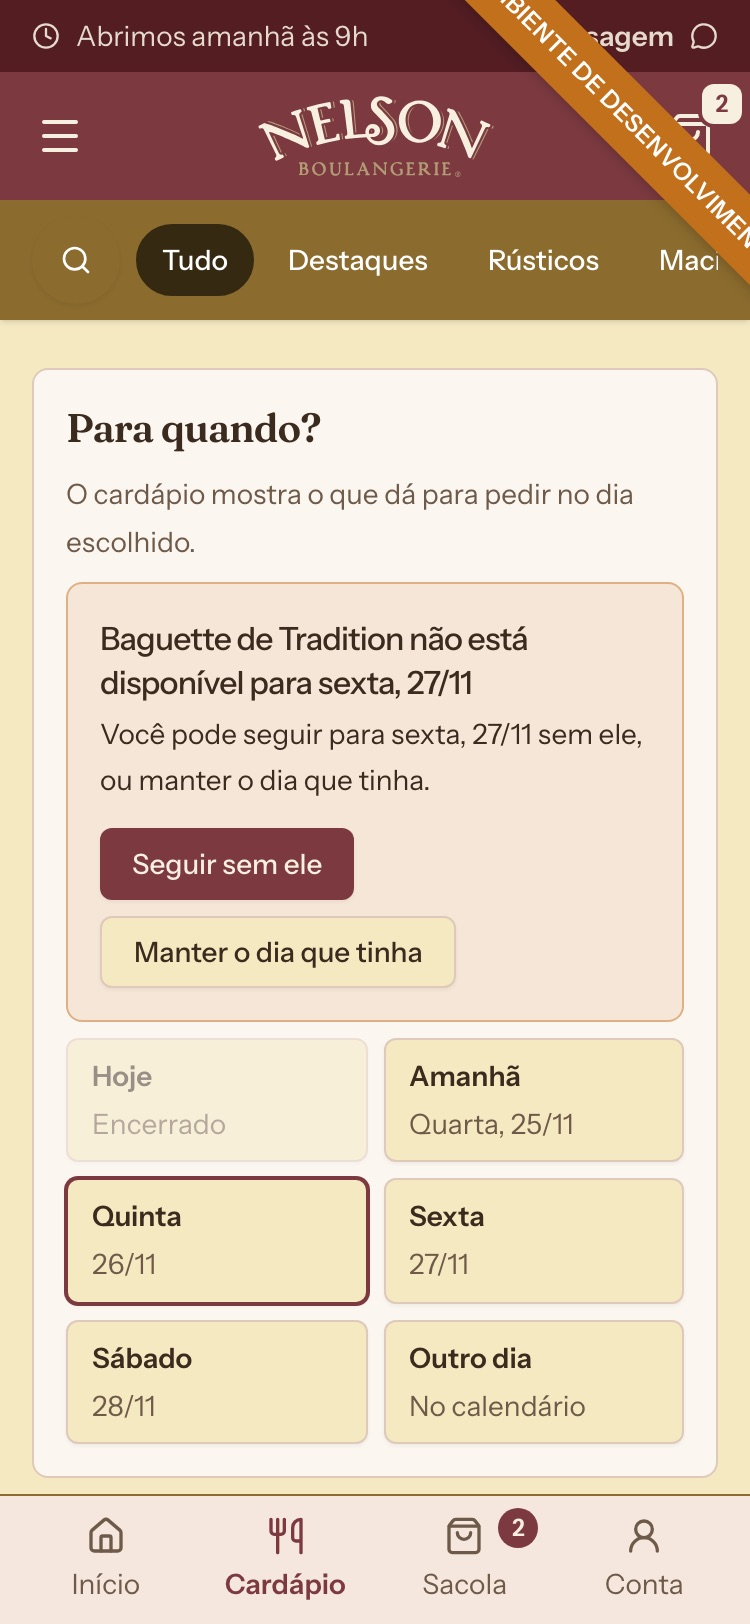
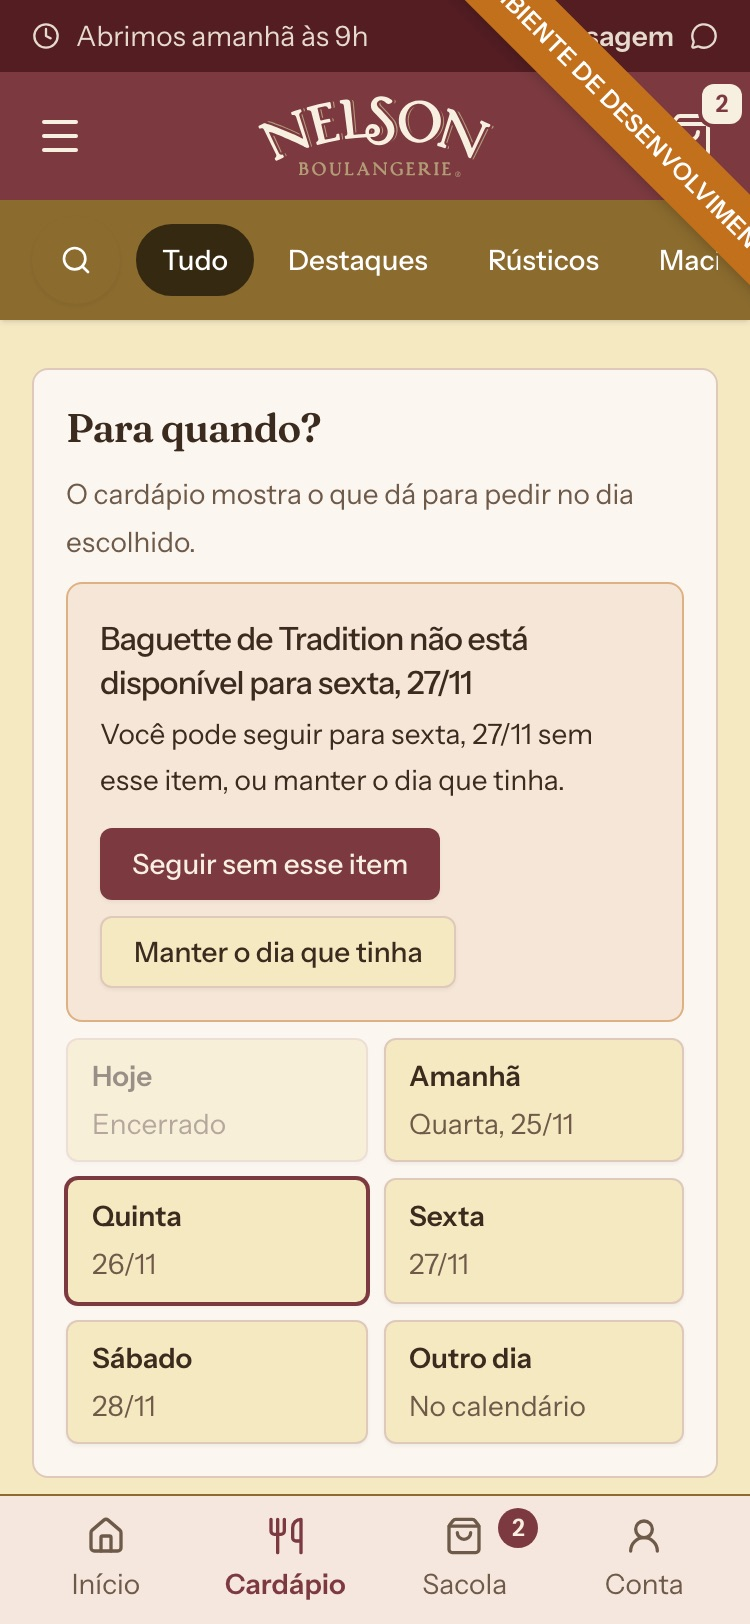
OC-33 B1: frase neutra na troca de dia; linha com preço de lote nunca muda de dia
"Seguir sem esse item" / "sem esses itens": a casa não sabe o gênero de cada
produto (policies.preorder_date e a tela).

Na troca de dia, a linha com preço de lote (desconto de lote estampado, ou lote
com desconto) é "não dá nesse dia": nomeada pela linha (ref = line_id) e tirada
em "Seguir sem esse item". A linha que só guarda o lote da reserva antiga, sem
desconto, muda de dia SEM o batch_ref: a sobra de hoje não lastreia outro dia e
o preço do lote não viaja. Capturas do aviso em 375.

Compromisso: DEV-2026-085

Changed region(s): [[0.1533, 0.4618, 0.736, 0.5542], [0.7973, 0.431, 0.8587, 0.4618]]

diff --git a/surfaces/storefront-nuxt/tests/pages/menuDayFirst.test.ts b/surfaces/storefront-nuxt/tests/pages/menuDayFirst.test.ts
@@ -55,10 +55,10 @@ registerEndpoint('/api/v1/cart/day/', {
       return {
         error_code: 'cart_day_change_refused',
         title: 'Tabatière não está disponível para quinta, 26/11',
-        detail: 'Você pode seguir para quinta, 26/11 sem ele, ou manter o dia que tinha.',
+        detail: 'Você pode seguir para quinta, 26/11 sem esse item, ou manter o dia que tinha.',
         date: '2026-11-26',
         date_label: 'quinta, 26/11',
-        items: [{ sku: 'TABAT', name: 'Tabatière', requested_qty: 1, available_qty: 0 }]
+        items: [{ ref: 'TABAT', sku: 'TABAT', name: 'Tabatière', requested_qty: 1, available_qty: 0 }]
       }
     }
     return { cart: { ...useState<CartProjection>('storefront-cart').value, day: { date: '2026-11-26', label: 'quinta, 26/11' } } }
@@ -155,7 +155,7 @@ describe('cardápio: "Para quando?" antes da lista (OC-33 B1)', () => {
     useState<CartProjection>('storefront-cart').value = { ...useState<CartProjection>('storefront-cart').value, is_empty: true, day: null }
   })
 
-  it('B, "Trocar" com a sacola cheia: o item que não dá é nomeado, e "Seguir sem ele" leva o resto', async () => {
+  it('B, "Trocar" com a sacola cheia: o item que não dá é nomeado, e "Seguir sem esse item" leva o resto', async () => {
     useState<CartProjection>('storefront-cart').value = {
       ...(useState<CartProjection>('storefront-cart').value || {}),
       is_empty: false,
@@ -173,6 +173,9 @@ describe('cardápio: "Para quando?" antes da lista (OC-33 B1)', () => {
     await vi.waitFor(() => expect(page.find('[data-menu-day-refusal]').exists()).toBe(true))
     expect(page.find('[data-menu-day-refusal]').text()).toContain('Tabatière não está disponível para quinta, 26/11')
     expect(dayCalls[0]).toEqual({ date: '2026-11-26', without: [] })
+    // Forma neutra: a casa não sabe o gênero de cada produto.
+    expect(page.find('[data-menu-day-refusal]').text()).toContain('sem esse item')
+    expect(page.find('[data-menu-day-proceed]').text()).toBe('Seguir sem esse item')
 
     await page.find('[data-menu-day-proceed]').trigger('click')
     await vi.waitFor(() => expect(page.find('[data-menu-day-bar]').exists()).toBe(true))

diff --git a/surfaces/storefront-nuxt/app/components/MenuDayPicker.vue b/surfaces/storefront-nuxt/app/components/MenuDayPicker.vue
@@ -52,7 +52,7 @@ watch(otherDate, value => {
         <p>{{ refusal.detail }}</p>
         <div class="mt-2 flex flex-wrap gap-2">
           <UiButton :loading="busy" data-menu-day-proceed @click="emit('proceedWithout')">
-            {{ refusal.items.length > 1 ? 'Seguir sem eles' : 'Seguir sem ele' }}
+            {{ refusal.items.length > 1 ? 'Seguir sem esses itens' : 'Seguir sem esse item' }}
           </UiButton>
           <UiButton variant="outline" :disabled="busy" data-menu-day-keep @click="emit('keep')">Manter o dia que tinha</UiButton>
         </div>

diff --git a/surfaces/storefront-nuxt/app/types/shopman.ts b/surfaces/storefront-nuxt/app/types/shopman.ts
@@ -487,7 +487,8 @@ export interface CartDayChangeRefusal {
   detail: string
   date: string
   date_label: string
-  items: Array<{ sku: string, name: string, requested_qty: number, available_qty: number }>
+  // `ref`: o que volta em `without` para seguir sem o item (o SKU, ou a linha de lote).
+  items: Array<{ ref: string, sku: string, name: string, requested_qty: number, available_qty: number }>
 }
 
 // A sacola aberta em outro canal (OC-17). `bring` é a ação de trazê-la para cá:

diff --git a/surfaces/storefront-nuxt/app/pages/menu.vue b/surfaces/storefront-nuxt/app/pages/menu.vue
@@ -206,7 +206,7 @@ function pickMenuDay (value: string) {
 // EXPERIMENT(cardapio-dia-primeiro) remove_after 2027-02-22
 function proceedWithoutRefused () {
   const refusal = dayChangeRefusal.value
-  if (refusal) void moveCartTo(refusal.date, refusal.items.map(item => item.sku))
+  if (refusal) void moveCartTo(refusal.date, refusal.items.map(item => item.ref || item.sku))
 }
 
 // EXPERIMENT(cardapio-dia-primeiro) remove_after 2027-02-22

diff --git a/shopman/storefront/tests/api/test_catalog_para_quando.py b/shopman/storefront/tests/api/test_catalog_para_quando.py
@@ -401,7 +401,7 @@ def test_trocar_para_um_dia_em_que_um_item_nao_da_nomeia_o_item_e_nao_muda_nada(
         assert body["error_code"] == "cart_day_change_refused"
         assert [item["name"] for item in body["items"]] == ["Tabatière"]
         assert body["title"] == "Tabatière não está disponível para sexta, 20/11"
-        assert body["detail"] == "Você pode seguir para sexta, 20/11 sem ele, ou manter o dia que tinha."
+        assert body["detail"] == "Você pode seguir para sexta, 20/11 sem esse item, ou manter o dia que tinha."
         # Nada mudou: o dia, as reservas e as linhas são os de antes.
         after = _session()
         assert after.data["delivery_date"] == "2026-11-19"
@@ -476,3 +476,100 @@ def test_trocar_para_um_dia_que_a_casa_nao_atende_recusa_e_a_sacola_fica_intacta
         assert after.data["delivery_date"] == "2026-11-19"
         assert _live_hold_dates(after.session_key) == {THURSDAY}
         assert _lines(after) == {"BRIOCHE": 2, "TABAT": 1}
+
+
+def test_linha_de_lote_nunca_vai_para_outro_dia_e_seguir_sem_ela_leva_so_a_normal():
+    """A sobra de hoje não lastreia outro dia (dono, 18/11/2026), nem o preço do lote viaja.
+
+    A loja MONTA linha de lote: a reserva de hoje ancora no quant do lote, e
+    ``cart.add_item`` grava ``meta["batch_ref"]``; o desconto de lote sai dele. A
+    loja online só vende lote de grau bom (``QUALITY_OK_GRADE_REFS``), mas lote de
+    grau bom pode ter desconto (a validade curta do queijo, ADR-017 §7). Na troca
+    para amanhã essa linha é "não dá nesse dia", nomeada; a normal vai para
+    amanhã com o preço normal.
+    """
+    from shopman.offerman.models import Listing, ListingItem, Product
+    from shopman.stockman.models import Batch, Position, Quant
+
+    with _frozen(OPEN_AT_10):
+        _world()
+        listing = Listing.objects.get(ref="web")
+        lote = Product.objects.create(
+            sku="PAOLOTE", name="Pão do Lote", base_price_q=1000, is_published=True, is_sellable=True,
+            shelf_life_days=1,
+        )
+        ListingItem.objects.create(listing=listing, product=lote, price_q=1000)
+        Batch.objects.create(
+            sku="PAOLOTE", ref="L-HOJE", expiry_date=TUESDAY, quality_grade_ref="standard",
+            nonconformity_reason="Validade curta", nonconformity_percent=30,
+        )
+        Quant.objects.create(
+            sku="PAOLOTE", position=Position.objects.get(ref="vitrine"), batch="L-HOJE", _quantity=Decimal("5"),
+        )
+        # Amanhã há fornada do mesmo pão: mesmo assim a linha do LOTE não vai.
+        Quant.objects.create(sku="PAOLOTE", position=None, target_date=TUESDAY + timedelta(days=1), _quantity=Decimal(10))
+        client = Client()
+        first = _put(client, "PAOLOTE", qty=1)
+        assert first.status_code == 200, first.content[:600]
+        assert _put(client, "GELEIA", qty=1).status_code == 200
+        session = _session()
+        lot_line = next(item for item in session.items if item["sku"] == "PAOLOTE")
+        assert lot_line["meta"]["batch_ref"] == "L-HOJE"  # a loja monta, sim, a linha de lote
+        assert lot_line["unit_price_q"] == 700  # e o preço dela é o do lote (-30%)
+
+        wednesday = TUESDAY + timedelta(days=1)
+        resp = _day(client, wednesday)
+
+        assert resp.status_code == 409, resp.content[:400]
+        body = resp.json()
+        assert [(item["name"], item["ref"]) for item in body["items"]] == [("Pão do Lote", lot_line["line_id"])]
+        assert body["title"] == "Pão do Lote não está disponível para amanhã, quarta"
+        assert _live_hold_dates(_session().session_key) == {TUESDAY}
+
+        resp = _day(client, wednesday, without=[item["ref"] for item in body["items"]])
+
+        assert resp.status_code == 200, resp.content[:400]
+        after = _session()
+        assert _lines(after) == {"GELEIA": 1}
+        [geleia] = after.items
+        assert geleia["unit_price_q"] == 900  # o preço normal, sem nada do lote
+        assert not (geleia.get("meta") or {}).get("batch_ref")
+        assert _live_hold_dates(after.session_key) == {wednesday}
+
+
+def test_linha_que_so_guarda_o_lote_da_reserva_muda_de_dia_sem_ele():
+    """Lote sem desconto é só a identidade da reserva de hoje: a linha muda, o lote fica.
+
+    A linha não leva o ``batch_ref`` antigo para amanhã: se o lote de hoje ganhar
+    desconto no fechamento (o "Ontem"), ele nunca alcança a encomenda de amanhã.
+    """
+    from shopman.offerman.models import Listing, ListingItem, Product
+    from shopman.stockman.models import Batch, Position, Quant
+
+    with _frozen(OPEN_AT_10):
+        _world()
+        produto = Product.objects.create(
+            sku="PAOFORNO", name="Pão da Fornada", base_price_q=1000, is_published=True, is_sellable=True,
+            shelf_life_days=1,
+        )
+        ListingItem.objects.create(listing=Listing.objects.get(ref="web"), product=produto, price_q=1000)
+        Batch.objects.create(sku="PAOFORNO", ref="F-HOJE", expiry_date=TUESDAY, quality_grade_ref="standard")
+        Quant.objects.create(
+            sku="PAOFORNO", position=Position.objects.get(ref="vitrine"), batch="F-HOJE", _quantity=Decimal("5"),
+        )
+        wednesday = TUESDAY + timedelta(days=1)
+        Quant.objects.create(sku="PAOFORNO", position=None, target_date=wednesday, _quantity=Decimal(10))
+        client = Client()
+        assert _put(client, "PAOFORNO", qty=1).status_code == 200
+        [line] = _session().items
+        assert line["meta"]["batch_ref"] == "F-HOJE"
+        assert line["unit_price_q"] == 1000
+
+        resp = _day(client, wednesday)
+
+        assert resp.status_code == 200, resp.content[:400]
+        after = _session()
+        [moved] = after.items
+        assert not (moved.get("meta") or {}).get("batch_ref")
+        assert moved["unit_price_q"] == 1000
+        assert _live_hold_dates(after.session_key) == {wednesday}

diff --git a/shopman/shop/services/cart.py b/shopman/shop/services/cart.py
@@ -158,6 +158,37 @@ class CartDayChangeRefused(Exception):
         self.detail = detail
 
 
+def _is_lot_line(item: dict) -> bool:
+    """A linha tem PREÇO de lote: o desconto de lote estampado, ou um lote com desconto.
+
+    É a linha que não muda de dia (a sobra de hoje não lastreia outro dia, e o preço
+    do lote não viaja). Linha que só guarda o lote de onde a reserva saiu, sem
+    desconto nenhum, muda de dia sem ele (:func:`_without_lot`).
+    """
+    meta = item.get("meta") or {}
+    if (meta.get("_disc") or {}).get("type") == "lot_discount":
+        return True
+    batch_ref = str(meta.get("batch_ref") or "")
+    return bool(batch_ref) and lot_pricing.percent_for_lot(batch_ref) > 0
+
+
+def _without_lot(items: list[dict]) -> list[dict] | None:
+    """As linhas sem a marca de lote da reserva antiga; ``None`` quando nenhuma tinha.
+
+    A reserva do dia novo não é a do lote antigo: a linha não leva o ``batch_ref``
+    para o outro dia, e o ``LotDiscountModifier`` nunca o lê lá.
+    """
+    changed = False
+    out: list[dict] = []
+    for item in items:
+        meta = item.get("meta") or {}
+        if meta.get("batch_ref"):
+            item = {**item, "meta": {k: v for k, v in meta.items() if k != "batch_ref"}}
+            changed = True
+        out.append(item)
+    return out if changed else None
+
+
 class _DayChangeRollback(Exception):
     """Interno: desfaz a troca inteira (savepoint) e leva a recusa para fora."""
 
@@ -183,8 +214,12 @@ def change_cart_day(
     - dia que a casa não combina: :class:`CartDateRefused`, sacola intacta;
     - item que não dá no dia novo: :class:`CartDayChangeRefused` nomeando cada um,
       sacola intacta (a transação desfaz o que foi solto e refeito);
-    - ``without_skus``: "seguir sem ele". Esses itens saem da sacola na mesma
-      escrita, e o resto vai para o dia novo.
+    - ``without_skus``: "seguir sem esse item". Cada referência é o ``ref`` que a
+      recusa devolveu (o SKU, ou a ``line_id`` da linha de lote); esses itens saem
+      da sacola na mesma escrita, e o resto vai para o dia novo;
+    - linha com preço de lote nunca vai para outro dia (a sobra de hoje não
+      lastreia outro dia): ela volta nomeada na recusa, como item que não dá. A
+      que só guarda o lote da reserva antiga vai, sem ele.
 
     Hoje é a régua de sempre para dizer "dá?" (o pronto e a fornada de hoje), e a
     escolha de dia sai da sessão. ``None`` = não há sacola aberta.
@@ -202,17 +237,29 @@ def change_cart_day(
     if session is None:
         return None
 
-    dropped = {str(sku) for sku in without_skus if sku}
+    dropped = {str(ref) for ref in without_skus if ref}
     lines = [
         item for item in (session.items or [])
         if item.get("sku") and item.get("sku") != "__DELIVERY_FEE__"
         and (item.get("meta") or {}).get("type") != "delivery_fee"
     ]
+
+    def leaves(item) -> bool:
+        return str(item["sku"]) in dropped or str(item.get("line_id") or "") in dropped
+
     wanted: dict[str, Decimal] = {}
     names: dict[str, str] = {}
+    # A linha de LOTE (o "Ontem" de balcão, ou qualquer preço ou desconto atrelado a
+    # lote) nunca vai para outro dia: a sobra de hoje não lastreia outro dia (dono,
+    # 18/11/2026), e o preço do lote não viaja. Ela é "não dá nesse dia", nomeada
+    # pela linha, e sai em "Seguir sem esse item".
+    lot_lines: list[dict] = []
     for item in lines:
         sku = str(item["sku"])
-        if sku in dropped:
+        if leaves(item):
+            continue
+        if _is_lot_line(item):
+            lot_lines.append(item)
             continue
         wanted[sku] = wanted.get(sku, Decimal("0")) + Decimal(str(item.get("qty") or 0))
         names.setdefault(sku, str(item.get("name") or sku))
@@ -220,7 +267,16 @@ def change_cart_day(
     try:
         with transaction.atomic():
             availability.release_session_holds(session_key)
-            missing: list[dict] = []
+            missing: list[dict] = [
+                {
+                    "ref": str(item.get("line_id") or item["sku"]),
+                    "sku": str(item["sku"]),
+                    "name": str(item.get("name") or item["sku"]),
+                    "requested_qty": _whole(Decimal(str(item.get("qty") or 0))),
+                    "available_qty": 0,
+                }
+                for item in lot_lines
+            ]
             for sku, qty in wanted.items():
                 if qty <= 0:
                     continue
@@ -229,6 +285,7 @@ def change_cart_day(
                 )
                 if not result["ok"]:
                     missing.append({
+                        "ref": sku,
                         "sku": sku,
                         "name": names[sku],
                         "requested_qty": _whole(qty),
@@ -247,11 +304,14 @@ def change_cart_day(
                 data.pop("delivery_date", None)
             session.data = data
             session.save(update_fields=["data"])
+            stripped = _without_lot(list(session.items or []))
+            if stripped is not None:
+                session.update_items(stripped)
     except _DayChangeRollback as rollback:
         raise rollback.refusal from None
 
     availability.bump_session_hold_expiry(session_key, channel_ref=channel_ref)
-    ops = [{"op": "remove_line", "line_id": item["line_id"]} for item in lines if str(item["sku"]) in dropped]
+    ops = [{"op": "remove_line", "line_id": item["line_id"]} for item in lines if leaves(item)]
     return session_service.modify_session(session_key=session_key, channel_ref=channel_ref, ops=ops)
 
 

diff --git a/shopman/shop/policies/preorder_date.py b/shopman/shop/policies/preorder_date.py
@@ -73,12 +73,13 @@ def cart_day_change_refusal(*, day_label: str, names: list[str]) -> dict[str, st
     Nomeia cada item que não dá no dia novo. Nada mudou ainda: a cliente escolhe
     seguir sem eles ou manter o dia que tinha.
     """
+    # Forma neutra: a casa não sabe o gênero de cada produto ("a baguete", "o pão").
     if len(names) == 1:
         title = f"{names[0]} não está disponível para {day_label}"
-        detail = f"Você pode seguir para {day_label} sem ele, ou manter o dia que tinha."
+        detail = f"Você pode seguir para {day_label} sem esse item, ou manter o dia que tinha."
     else:
         title = f"Estes itens não estão disponíveis para {day_label}"
-        detail = f"Você pode seguir para {day_label} sem eles, ou manter o dia que tinha."
+        detail = f"Você pode seguir para {day_label} sem esses itens, ou manter o dia que tinha."
     return {"title": title, "detail": detail}
 
 
